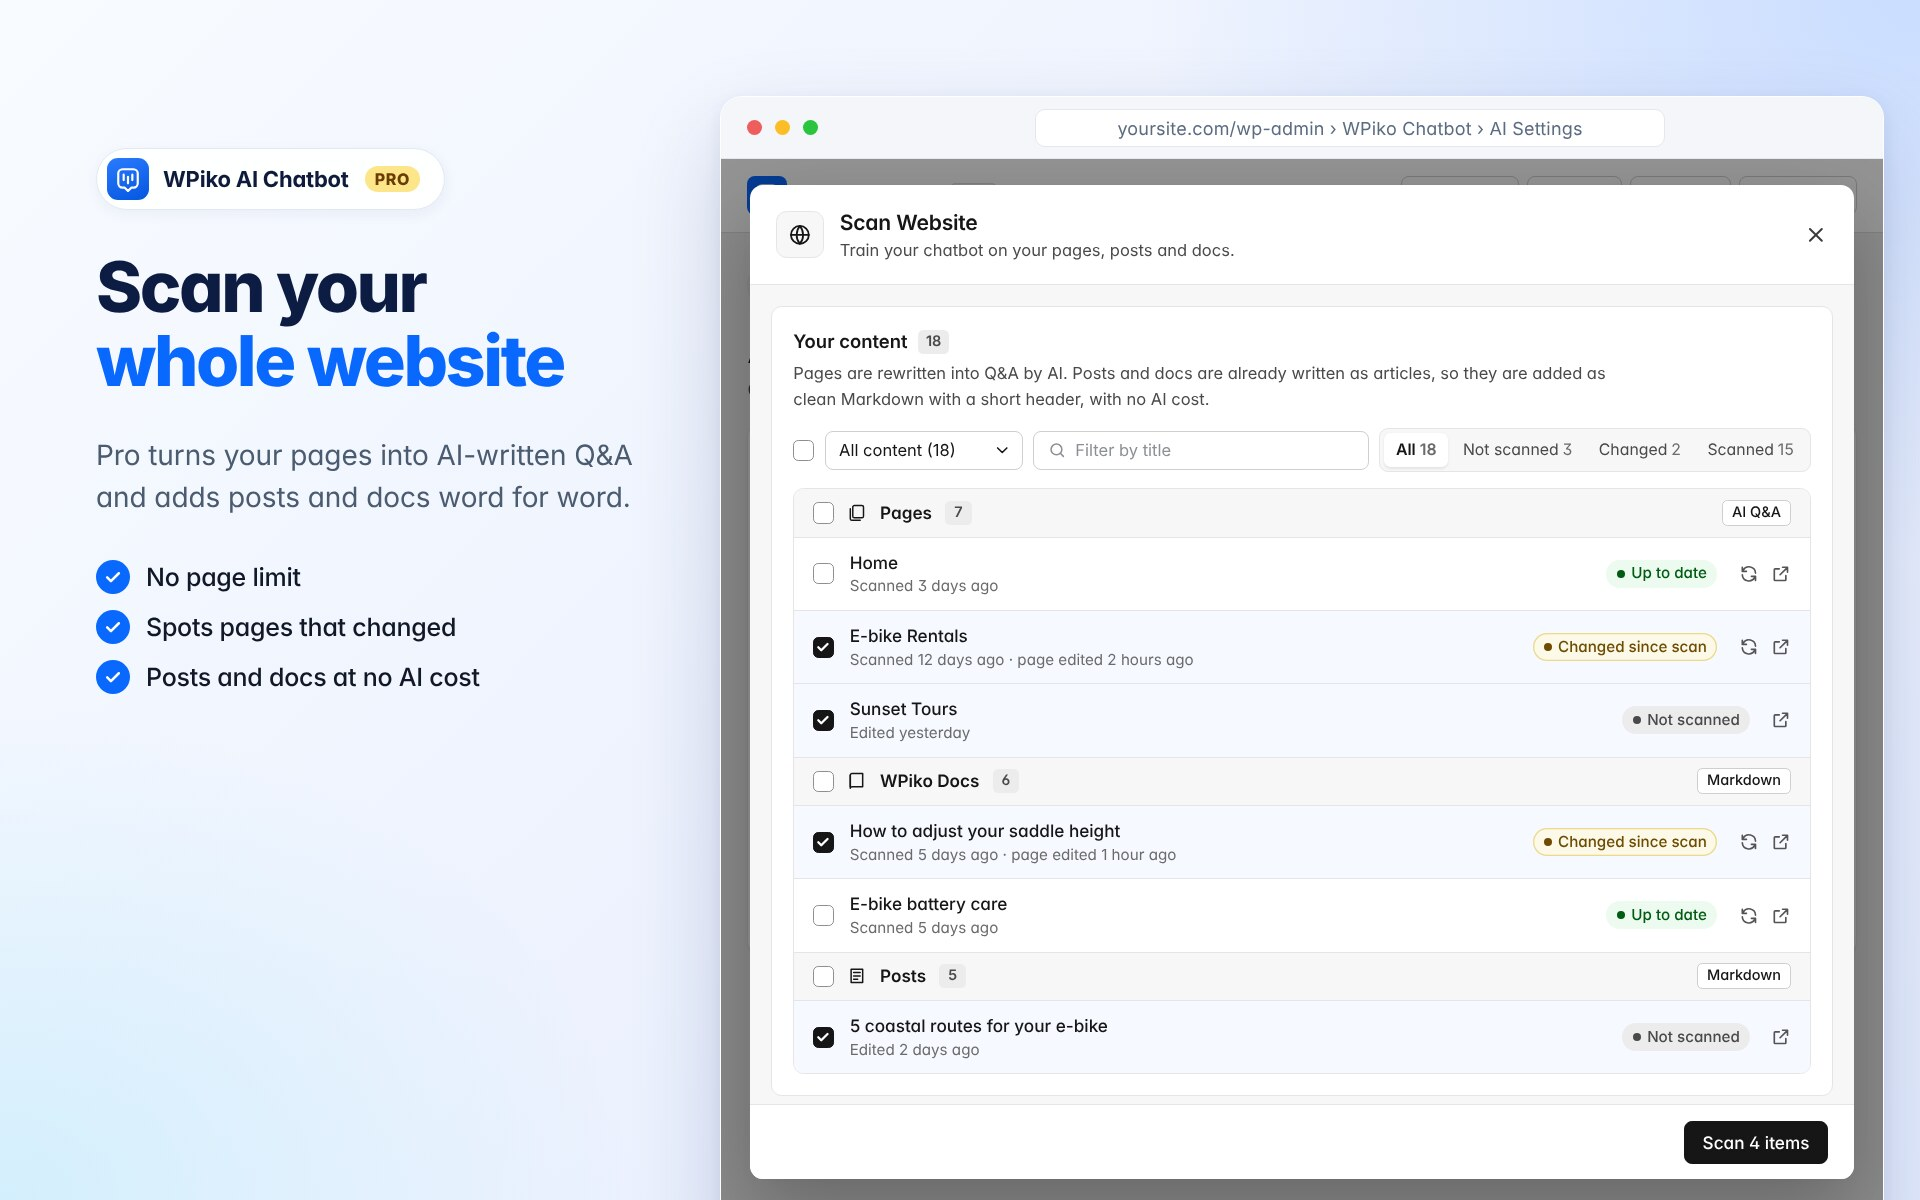
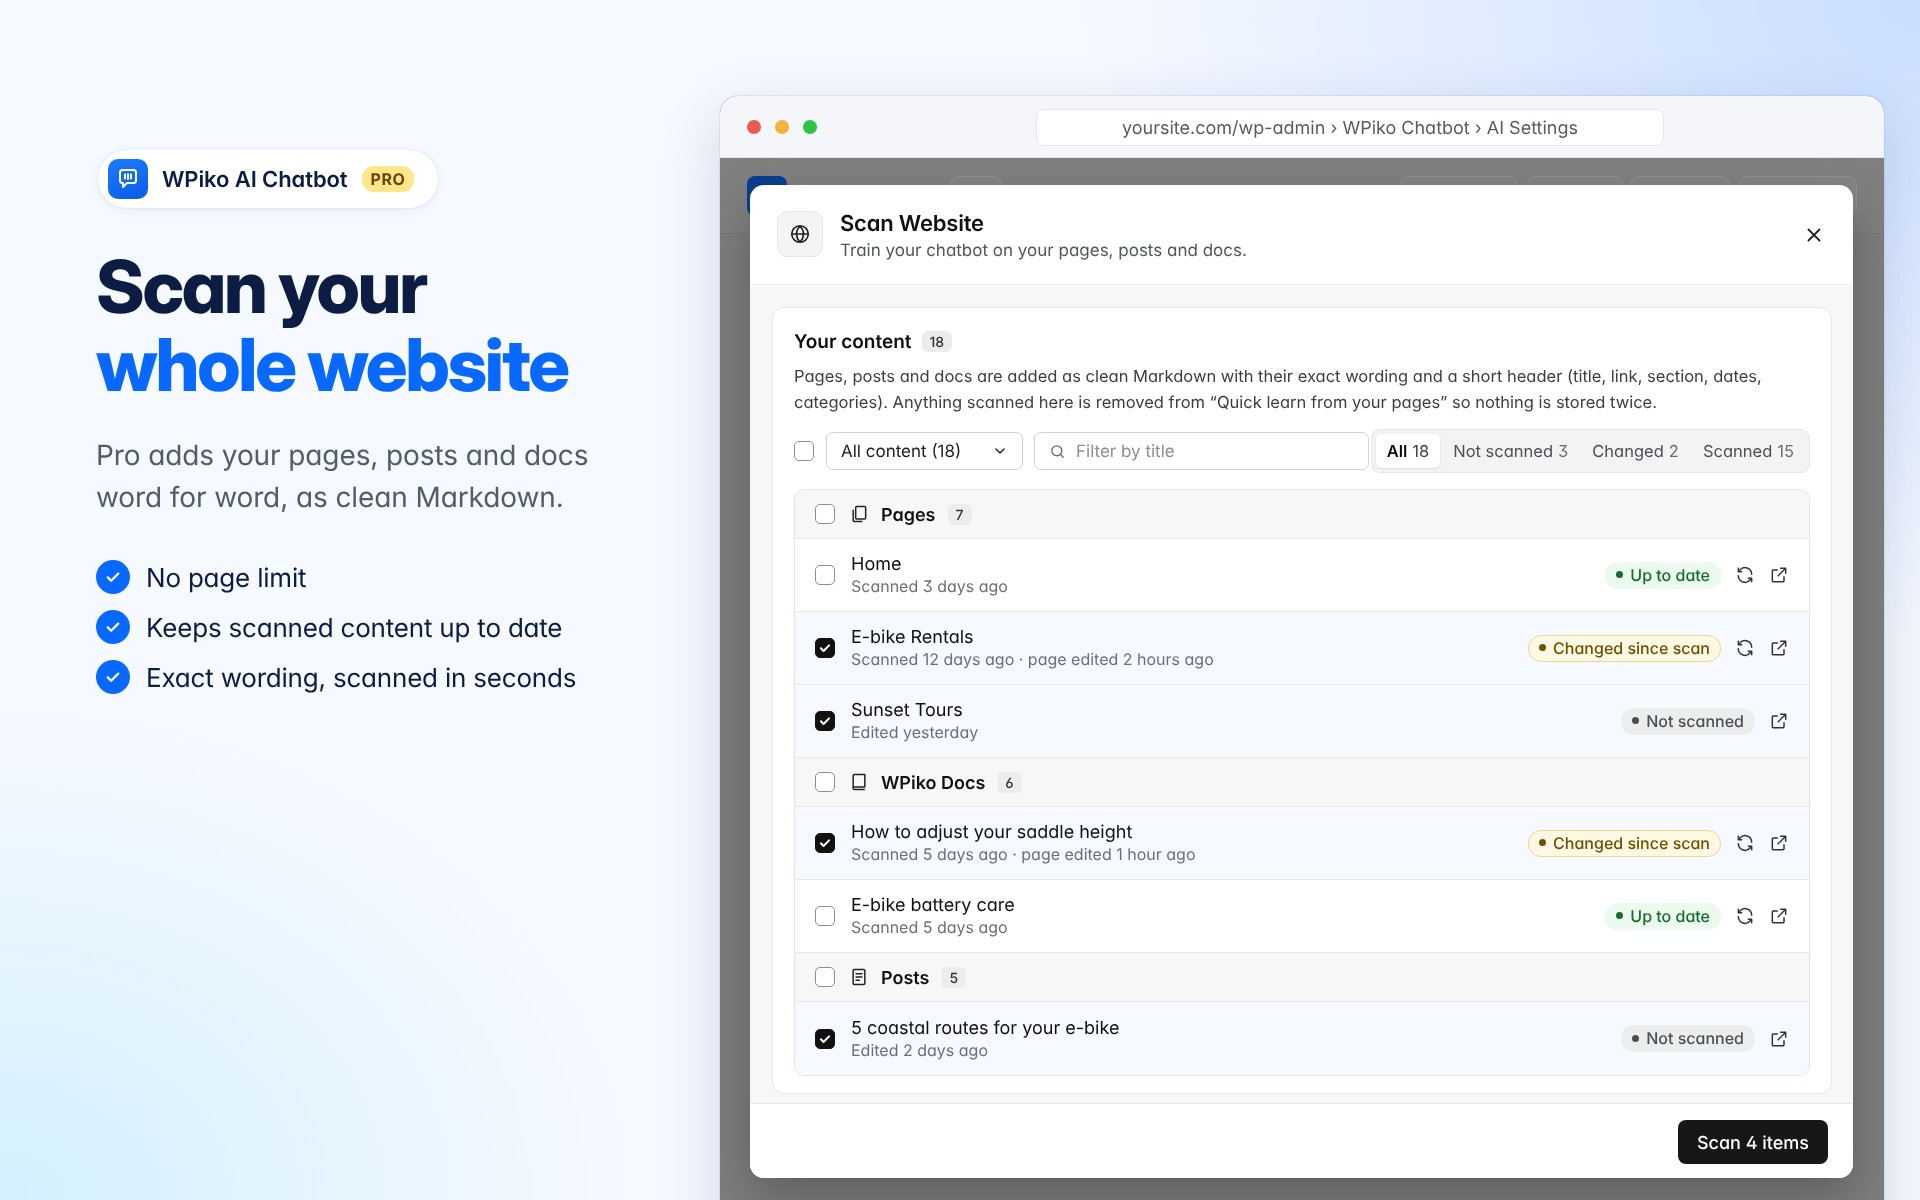
Refactor code structure for improved readability and maintainability

diff --git a/includes/site-knowledge.php b/includes/site-knowledge.php
@@ -667,7 +667,7 @@ function wpiko_chatbot_render_site_knowledge_panel($context = 'settings')
                 <strong><span class="dashicons dashicons-media-text" aria-hidden="true"></span> <?php esc_html_e('Quick learn', 'wpiko-chatbot'); ?></strong>
                 <ul>
                     <li><?php esc_html_e('Copies the page text', 'wpiko-chatbot'); ?></li>
-                    <li><?php esc_html_e('Ready in seconds, no AI cost', 'wpiko-chatbot'); ?></li>
+                    <li><?php esc_html_e('Ready in seconds', 'wpiko-chatbot'); ?></li>
                     <li>
                         <?php
                         /* translators: %d: page limit. */
@@ -680,7 +680,7 @@ function wpiko_chatbot_render_site_knowledge_panel($context = 'settings')
                 <strong><span class="dashicons dashicons-admin-site-alt3" aria-hidden="true"></span> <?php esc_html_e('Scan Website', 'wpiko-chatbot'); ?> <span class="wpiko-pro-pill">PRO</span></strong>
                 <ul>
                     <li><?php esc_html_e('Pages, posts and docs as clean Markdown', 'wpiko-chatbot'); ?></li>
-                    <li><?php esc_html_e('Exact wording, no AI cost, can update automatically', 'wpiko-chatbot'); ?></li>
+                    <li><?php esc_html_e('Exact wording, can update automatically', 'wpiko-chatbot'); ?></li>
                     <li><?php esc_html_e('Any number of pages, posts and docs', 'wpiko-chatbot'); ?></li>
                 </ul>
                 <?php if ($pro_licensed) : ?>

diff --git a/admin/sections/ai-configuration-section.php b/admin/sections/ai-configuration-section.php
@@ -314,7 +314,7 @@ For support inquiries, direct users to contact@example.com."><?php echo esc_text
                                 'scan' => array(
                                     'icon' => 'dashicons-search',
                                     'label' => __('Scan Website', 'wpiko-chatbot'),
-                                    'info' => __('Scan your pages, posts and docs with no page limit. They are added as clean Markdown with their exact wording, with no AI cost.', 'wpiko-chatbot'),
+                                    'info' => __('Scan your pages, posts and docs with no page limit. They are added as clean Markdown with their exact wording.', 'wpiko-chatbot'),
                                 ),
                                 'qa' => array(
                                     'icon' => 'dashicons-editor-help',
